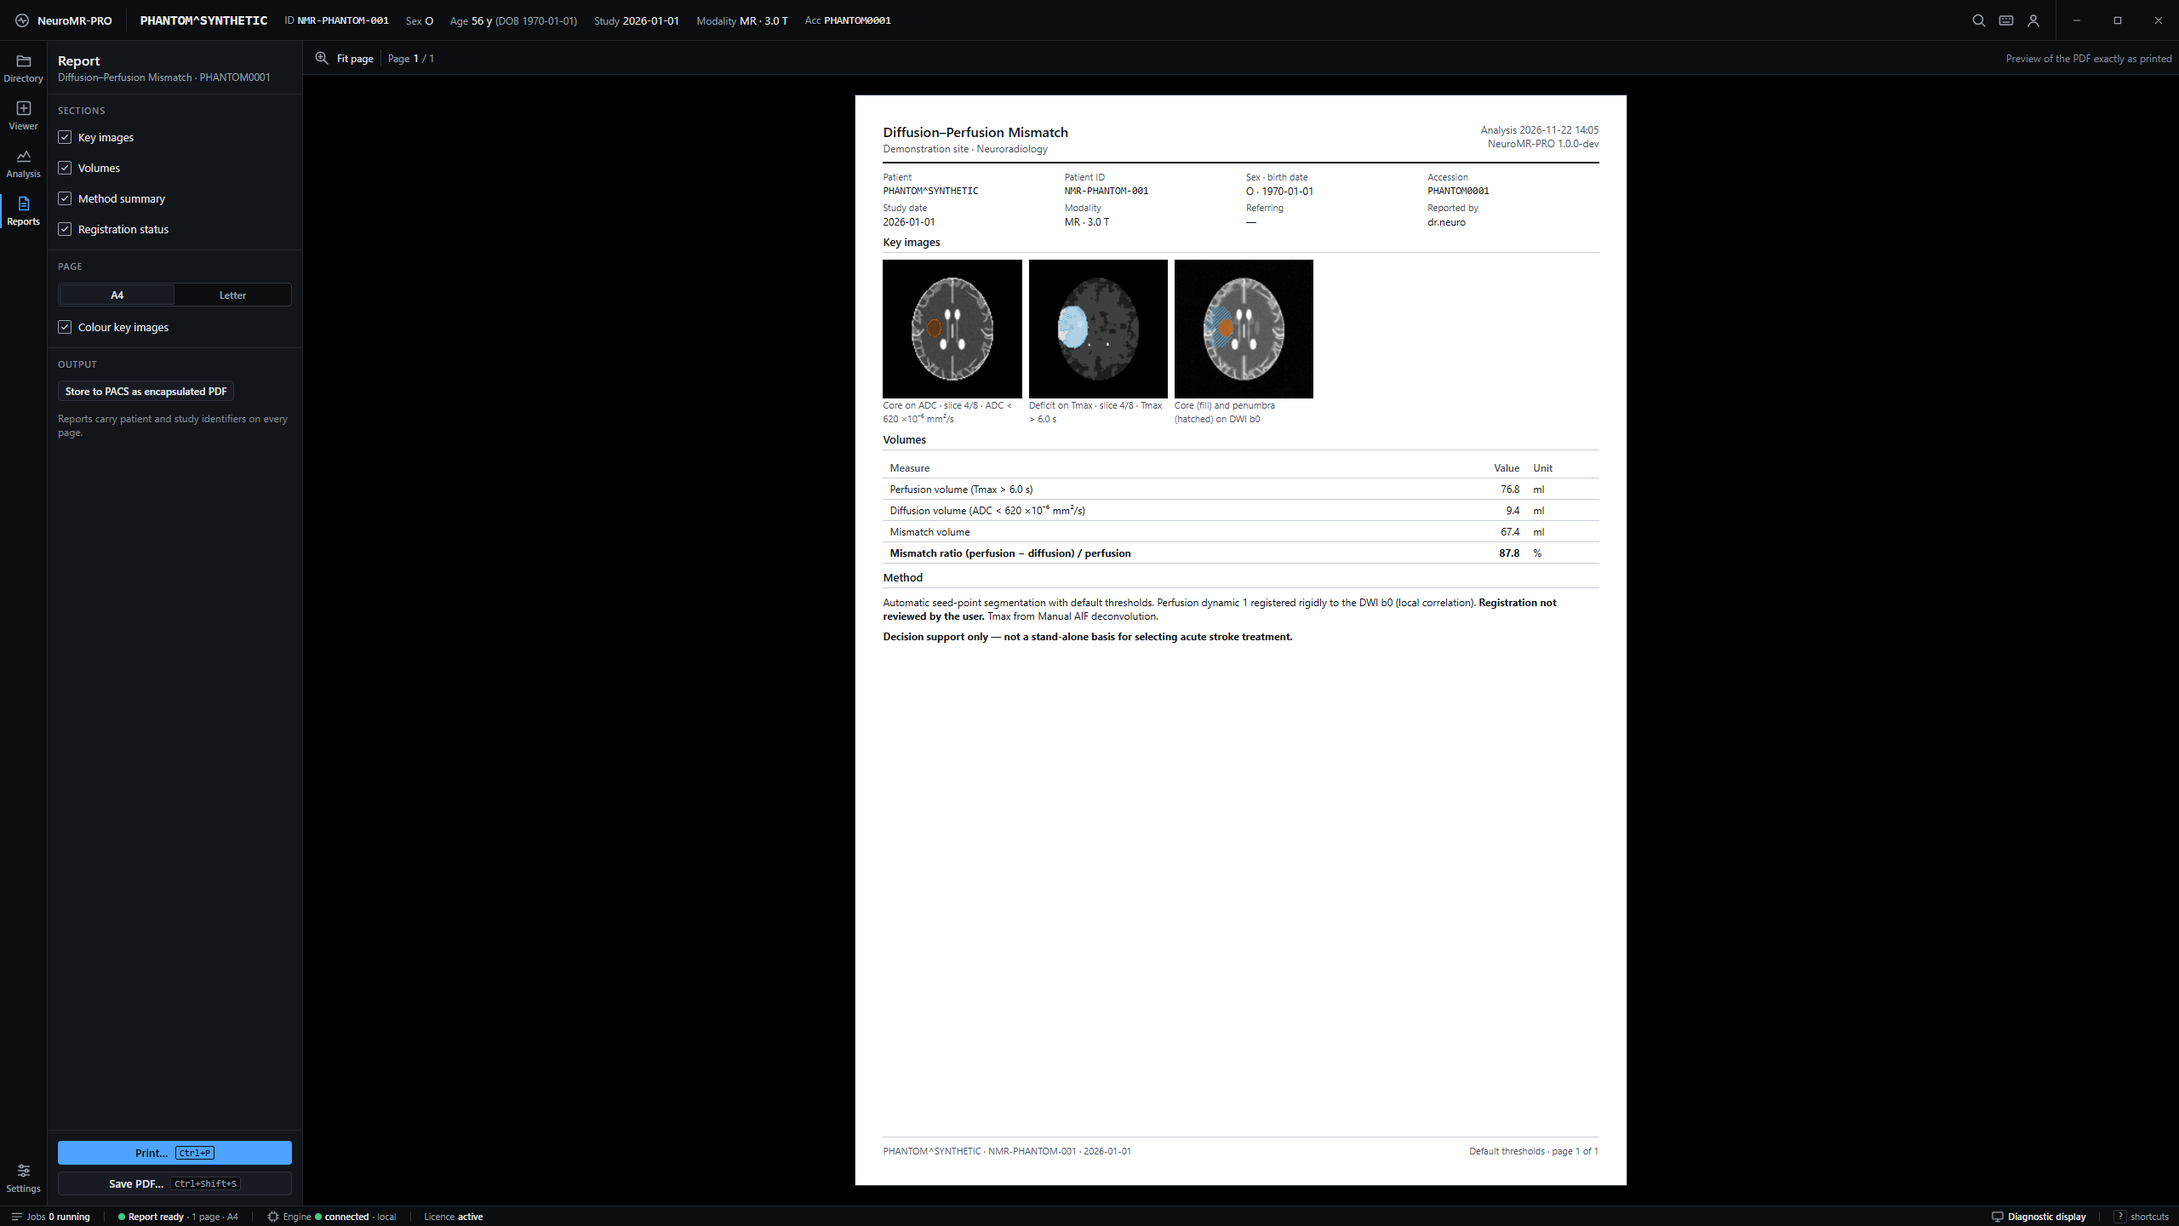
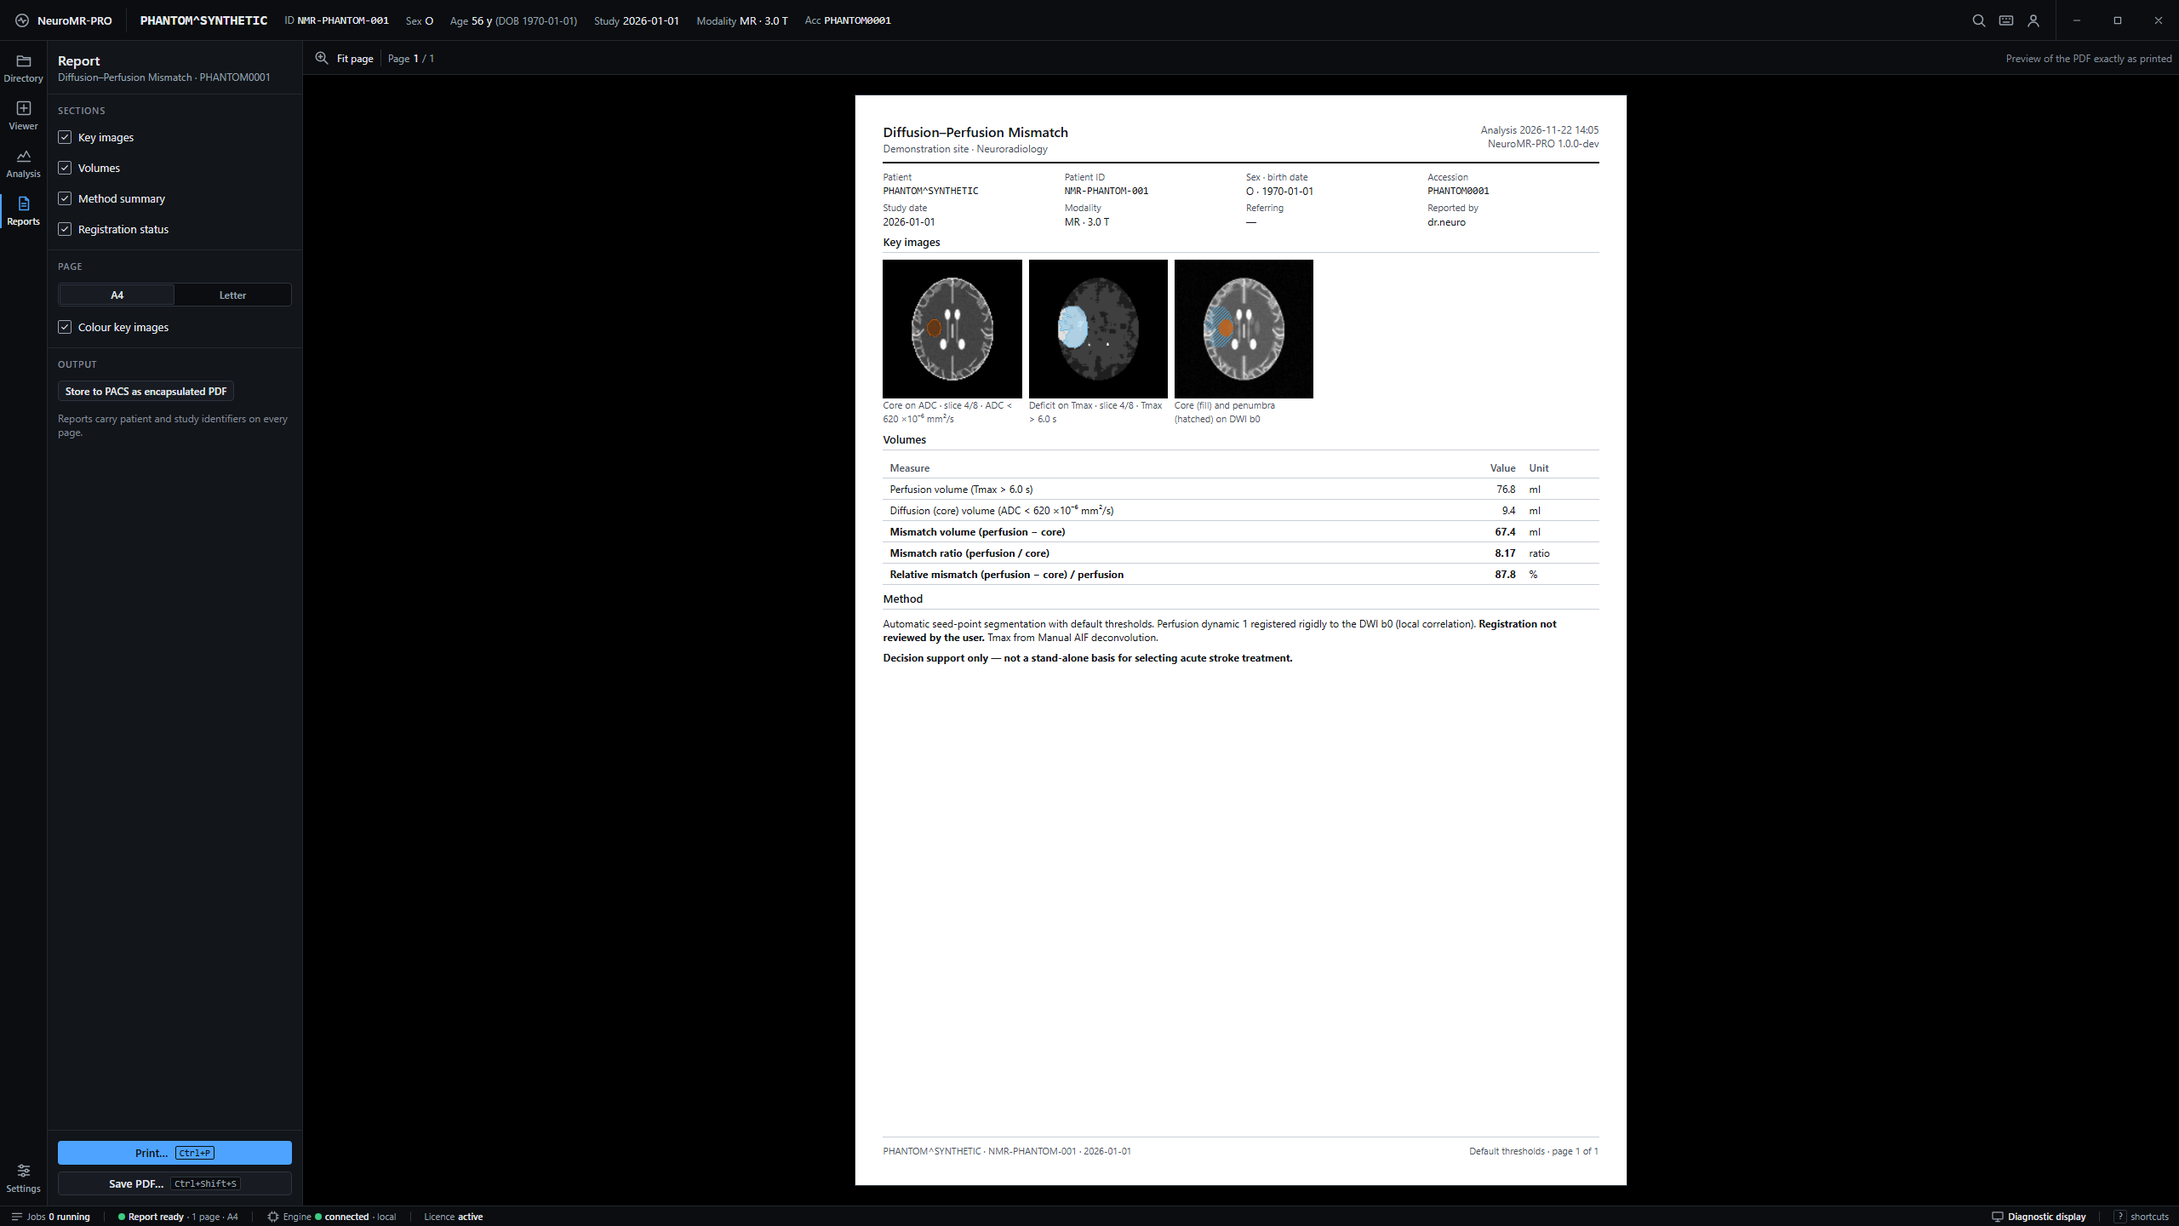
feat(design): mismatch ratio perfusion/core beside relative mismatch % (MM-008)
Table 2 and the mismatch report list perfusion, core and mismatch volume [ml],
mismatch ratio = perfusion / core and relative mismatch = (perfusion − core) /
perfusion [%], each with its formula; without a core the ratio reads "— (no core)".
Spec MM-008 and ALGORITHMS.md §3 updated; screens 05 (2×2, 2×3), 19 start view and
23 report regenerated, prototype rebuilt, CRITIQUE.md updated.

Changed region(s): [[0.4062, 0.375, 0.7188, 0.5625]]

diff --git a/design/prototype/23-report-mismatch.html b/design/prototype/23-report-mismatch.html
@@ -150,9 +150,10 @@
       <h2>Volumes</h2>
       <table class="ptbl"><thead><tr><th>Measure</th><th class="num">Value</th><th>Unit</th></tr></thead>
         <tbody><tr><td>Perfusion volume (Tmax &gt; 6.0 s)</td><td class="num">76.8</td><td>ml</td></tr>
-        <tr><td>Diffusion volume (ADC &lt; 620 ×10⁻⁶ mm²/s)</td><td class="num">9.4</td><td>ml</td></tr>
-        <tr><td>Mismatch volume</td><td class="num">67.4</td><td>ml</td></tr>
-        <tr><td><b>Mismatch ratio (perfusion − diffusion) / perfusion</b></td><td class="num"><b>87.8</b></td><td>%</td></tr></tbody></table>
+        <tr><td>Diffusion (core) volume (ADC &lt; 620 ×10⁻⁶ mm²/s)</td><td class="num">9.4</td><td>ml</td></tr>
+        <tr><td><b>Mismatch volume (perfusion − core)</b></td><td class="num"><b>67.4</b></td><td>ml</td></tr>
+        <tr><td><b>Mismatch ratio (perfusion / core)</b></td><td class="num"><b>8.17</b></td><td>ratio</td></tr>
+        <tr><td><b>Relative mismatch (perfusion − core) / perfusion</b></td><td class="num"><b>87.8</b></td><td>%</td></tr></tbody></table>
       <h2>Method</h2>
       <p>Automatic seed-point segmentation with default thresholds. Perfusion dynamic 1 registered rigidly to the DWI b0 (local correlation). <b>Registration not reviewed by the user.</b> Tmax from Manual AIF deconvolution.</p>
       <p><b>Decision support only — not a stand-alone basis for selecting acute stroke treatment.</b></p>

diff --git a/design/screens/23-report-mismatch.html b/design/screens/23-report-mismatch.html
@@ -148,9 +148,10 @@
       <h2>Volumes</h2>
       <table class="ptbl"><thead><tr><th>Measure</th><th class="num">Value</th><th>Unit</th></tr></thead>
         <tbody><tr><td>Perfusion volume (Tmax &gt; 6.0 s)</td><td class="num">76.8</td><td>ml</td></tr>
-        <tr><td>Diffusion volume (ADC &lt; 620 ×10⁻⁶ mm²/s)</td><td class="num">9.4</td><td>ml</td></tr>
-        <tr><td>Mismatch volume</td><td class="num">67.4</td><td>ml</td></tr>
-        <tr><td><b>Mismatch ratio (perfusion − diffusion) / perfusion</b></td><td class="num"><b>87.8</b></td><td>%</td></tr></tbody></table>
+        <tr><td>Diffusion (core) volume (ADC &lt; 620 ×10⁻⁶ mm²/s)</td><td class="num">9.4</td><td>ml</td></tr>
+        <tr><td><b>Mismatch volume (perfusion − core)</b></td><td class="num"><b>67.4</b></td><td>ml</td></tr>
+        <tr><td><b>Mismatch ratio (perfusion / core)</b></td><td class="num"><b>8.17</b></td><td>ratio</td></tr>
+        <tr><td><b>Relative mismatch (perfusion − core) / perfusion</b></td><td class="num"><b>87.8</b></td><td>%</td></tr></tbody></table>
       <h2>Method</h2>
       <p>Automatic seed-point segmentation with default thresholds. Perfusion dynamic 1 registered rigidly to the DWI b0 (local correlation). <b>Registration not reviewed by the user.</b> Tmax from Manual AIF deconvolution.</p>
       <p><b>Decision support only — not a stand-alone basis for selecting acute stroke treatment.</b></p>

diff --git a/design/prototype/05-mismatch-2x2.html b/design/prototype/05-mismatch-2x2.html
@@ -335,9 +335,10 @@
           <tbody>
 <!-- gen:mm-volumes -->
 <tr><td class="strong">Perfusion volume <span class="t3">Tmax &gt; 6.0 s</span></td><td class="num">76.8</td><td>ml</td></tr>
-<tr><td class="strong">Diffusion volume <span class="t3">ADC &lt; 620</span></td><td class="num">9.4</td><td>ml</td></tr>
-<tr><td class="strong">Mismatch volume</td><td class="num">67.4</td><td>ml</td></tr>
-<tr class="is-total"><td>Mismatch ratio <span class="t3">(perf − diff) / perf</span></td><td class="num">87.8</td><td>%</td></tr>
+<tr><td class="strong">Diffusion (core) volume <span class="t3">ADC &lt; 620</span></td><td class="num">9.4</td><td>ml</td></tr>
+<tr><td class="strong">Mismatch volume <span class="t3">perfusion − core</span></td><td class="num">67.4</td><td>ml</td></tr>
+<tr class="is-total"><td>Mismatch ratio <span class="t3">perfusion / core</span></td><td class="num">8.17</td><td>ratio</td></tr>
+<tr class="is-total"><td>Relative mismatch <span class="t3">(perfusion − core) / perfusion</span></td><td class="num">87.8</td><td>%</td></tr>
 <!-- /gen:mm-volumes -->
           </tbody>
         </table>

diff --git a/design/prototype/05-mismatch-2x3.html b/design/prototype/05-mismatch-2x3.html
@@ -354,9 +354,10 @@
           <tbody>
 <!-- gen:mm-volumes -->
 <tr><td class="strong">Perfusion volume <span class="t3">Tmax &gt; 6.0 s</span></td><td class="num">76.8</td><td>ml</td></tr>
-<tr><td class="strong">Diffusion volume <span class="t3">ADC &lt; 620</span></td><td class="num">9.4</td><td>ml</td></tr>
-<tr><td class="strong">Mismatch volume</td><td class="num">67.4</td><td>ml</td></tr>
-<tr class="is-total"><td>Mismatch ratio <span class="t3">(perf − diff) / perf</span></td><td class="num">87.8</td><td>%</td></tr>
+<tr><td class="strong">Diffusion (core) volume <span class="t3">ADC &lt; 620</span></td><td class="num">9.4</td><td>ml</td></tr>
+<tr><td class="strong">Mismatch volume <span class="t3">perfusion − core</span></td><td class="num">67.4</td><td>ml</td></tr>
+<tr class="is-total"><td>Mismatch ratio <span class="t3">perfusion / core</span></td><td class="num">8.17</td><td>ratio</td></tr>
+<tr class="is-total"><td>Relative mismatch <span class="t3">(perfusion − core) / perfusion</span></td><td class="num">87.8</td><td>%</td></tr>
 <!-- /gen:mm-volumes -->
           </tbody>
         </table>

diff --git a/design/prototype/18-mismatch-error-invalid.html b/design/prototype/18-mismatch-error-invalid.html
@@ -338,9 +338,10 @@
           <tbody>
 <!-- gen:mm-volumes -->
 <tr><td class="strong">Perfusion volume <span class="t3">Tmax &gt; 6.0 s</span></td><td class="num">76.8</td><td>ml</td></tr>
-<tr><td class="strong">Diffusion volume <span class="t3">ADC &lt; 620</span></td><td class="num">9.4</td><td>ml</td></tr>
-<tr><td class="strong">Mismatch volume</td><td class="num">67.4</td><td>ml</td></tr>
-<tr class="is-total"><td>Mismatch ratio <span class="t3">(perf − diff) / perf</span></td><td class="num">87.8</td><td>%</td></tr>
+<tr><td class="strong">Diffusion (core) volume <span class="t3">ADC &lt; 620</span></td><td class="num">9.4</td><td>ml</td></tr>
+<tr><td class="strong">Mismatch volume <span class="t3">perfusion − core</span></td><td class="num">67.4</td><td>ml</td></tr>
+<tr class="is-total"><td>Mismatch ratio <span class="t3">perfusion / core</span></td><td class="num">8.17</td><td>ratio</td></tr>
+<tr class="is-total"><td>Relative mismatch <span class="t3">(perfusion − core) / perfusion</span></td><td class="num">87.8</td><td>%</td></tr>
 <!-- /gen:mm-volumes -->
           </tbody>
         </table>

diff --git a/design/screens/05-mismatch-2x2.html b/design/screens/05-mismatch-2x2.html
@@ -333,9 +333,10 @@
           <tbody>
 <!-- gen:mm-volumes -->
 <tr><td class="strong">Perfusion volume <span class="t3">Tmax &gt; 6.0 s</span></td><td class="num">76.8</td><td>ml</td></tr>
-<tr><td class="strong">Diffusion volume <span class="t3">ADC &lt; 620</span></td><td class="num">9.4</td><td>ml</td></tr>
-<tr><td class="strong">Mismatch volume</td><td class="num">67.4</td><td>ml</td></tr>
-<tr class="is-total"><td>Mismatch ratio <span class="t3">(perf − diff) / perf</span></td><td class="num">87.8</td><td>%</td></tr>
+<tr><td class="strong">Diffusion (core) volume <span class="t3">ADC &lt; 620</span></td><td class="num">9.4</td><td>ml</td></tr>
+<tr><td class="strong">Mismatch volume <span class="t3">perfusion − core</span></td><td class="num">67.4</td><td>ml</td></tr>
+<tr class="is-total"><td>Mismatch ratio <span class="t3">perfusion / core</span></td><td class="num">8.17</td><td>ratio</td></tr>
+<tr class="is-total"><td>Relative mismatch <span class="t3">(perfusion − core) / perfusion</span></td><td class="num">87.8</td><td>%</td></tr>
 <!-- /gen:mm-volumes -->
           </tbody>
         </table>

diff --git a/design/screens/05-mismatch-2x3.html b/design/screens/05-mismatch-2x3.html
@@ -352,9 +352,10 @@
           <tbody>
 <!-- gen:mm-volumes -->
 <tr><td class="strong">Perfusion volume <span class="t3">Tmax &gt; 6.0 s</span></td><td class="num">76.8</td><td>ml</td></tr>
-<tr><td class="strong">Diffusion volume <span class="t3">ADC &lt; 620</span></td><td class="num">9.4</td><td>ml</td></tr>
-<tr><td class="strong">Mismatch volume</td><td class="num">67.4</td><td>ml</td></tr>
-<tr class="is-total"><td>Mismatch ratio <span class="t3">(perf − diff) / perf</span></td><td class="num">87.8</td><td>%</td></tr>
+<tr><td class="strong">Diffusion (core) volume <span class="t3">ADC &lt; 620</span></td><td class="num">9.4</td><td>ml</td></tr>
+<tr><td class="strong">Mismatch volume <span class="t3">perfusion − core</span></td><td class="num">67.4</td><td>ml</td></tr>
+<tr class="is-total"><td>Mismatch ratio <span class="t3">perfusion / core</span></td><td class="num">8.17</td><td>ratio</td></tr>
+<tr class="is-total"><td>Relative mismatch <span class="t3">(perfusion − core) / perfusion</span></td><td class="num">87.8</td><td>%</td></tr>
 <!-- /gen:mm-volumes -->
           </tbody>
         </table>

diff --git a/design/screens/18-mismatch-error-invalid.html b/design/screens/18-mismatch-error-invalid.html
@@ -336,9 +336,10 @@
           <tbody>
 <!-- gen:mm-volumes -->
 <tr><td class="strong">Perfusion volume <span class="t3">Tmax &gt; 6.0 s</span></td><td class="num">76.8</td><td>ml</td></tr>
-<tr><td class="strong">Diffusion volume <span class="t3">ADC &lt; 620</span></td><td class="num">9.4</td><td>ml</td></tr>
-<tr><td class="strong">Mismatch volume</td><td class="num">67.4</td><td>ml</td></tr>
-<tr class="is-total"><td>Mismatch ratio <span class="t3">(perf − diff) / perf</span></td><td class="num">87.8</td><td>%</td></tr>
+<tr><td class="strong">Diffusion (core) volume <span class="t3">ADC &lt; 620</span></td><td class="num">9.4</td><td>ml</td></tr>
+<tr><td class="strong">Mismatch volume <span class="t3">perfusion − core</span></td><td class="num">67.4</td><td>ml</td></tr>
+<tr class="is-total"><td>Mismatch ratio <span class="t3">perfusion / core</span></td><td class="num">8.17</td><td>ratio</td></tr>
+<tr class="is-total"><td>Relative mismatch <span class="t3">(perfusion − core) / perfusion</span></td><td class="num">87.8</td><td>%</td></tr>
 <!-- /gen:mm-volumes -->
           </tbody>
         </table>

diff --git a/design/prototype/19-start-neurologist.html b/design/prototype/19-start-neurologist.html
@@ -114,7 +114,7 @@
             <colgroup><col style="width:28%"><col style="width:16%"><col><col style="width:14%"></colgroup>
             <thead><tr><th>Patient</th><th>Study</th><th>Result (pre-processed)</th><th></th></tr></thead>
             <tbody>
-              <tr class="is-selected"><td class="strong mono">PHANTOM^SYNTHETIC</td><td>2026-01-01</td><td>Perfusion 76.8 ml · diffusion 9.4 ml · mismatch 67.4 ml <span class="chip chip--warning">Not reviewed</span></td><td><button class="btn btn--primary btn--dense">Open <span class="kbd">Enter</span></button></td></tr>
+              <tr class="is-selected"><td class="strong mono">PHANTOM^SYNTHETIC</td><td>2026-01-01</td><td>Perfusion 76.8 ml · core 9.4 ml · mismatch 67.4 ml · ratio 8.17 (87.8 %) <span class="chip chip--warning">Not reviewed</span></td><td><button class="btn btn--primary btn--dense">Open <span class="kbd">Enter</span></button></td></tr>
             </tbody>
           </table>
           <span class="field__hint">Pre-processed in the background; open the case to review registration and segmentation before using the values.</span>

diff --git a/design/screens/19-start-neurologist.html b/design/screens/19-start-neurologist.html
@@ -112,7 +112,7 @@
             <colgroup><col style="width:28%"><col style="width:16%"><col><col style="width:14%"></colgroup>
             <thead><tr><th>Patient</th><th>Study</th><th>Result (pre-processed)</th><th></th></tr></thead>
             <tbody>
-              <tr class="is-selected"><td class="strong mono">PHANTOM^SYNTHETIC</td><td>2026-01-01</td><td>Perfusion 76.8 ml · diffusion 9.4 ml · mismatch 67.4 ml <span class="chip chip--warning">Not reviewed</span></td><td><button class="btn btn--primary btn--dense">Open <span class="kbd">Enter</span></button></td></tr>
+              <tr class="is-selected"><td class="strong mono">PHANTOM^SYNTHETIC</td><td>2026-01-01</td><td>Perfusion 76.8 ml · core 9.4 ml · mismatch 67.4 ml · ratio 8.17 (87.8 %) <span class="chip chip--warning">Not reviewed</span></td><td><button class="btn btn--primary btn--dense">Open <span class="kbd">Enter</span></button></td></tr>
             </tbody>
           </table>
           <span class="field__hint">Pre-processed in the background; open the case to review registration and segmentation before using the values.</span>

diff --git a/design/tools/compose/enterprise.py b/design/tools/compose/enterprise.py
@@ -96,7 +96,7 @@ start = '''<div class="app app--settings">
             <colgroup><col style="width:28%"><col style="width:16%"><col><col style="width:14%"></colgroup>
             <thead><tr><th>Patient</th><th>Study</th><th>Result (pre-processed)</th><th></th></tr></thead>
             <tbody>
-              <tr class="is-selected"><td class="strong mono">PHANTOM^SYNTHETIC</td><td>2026-01-01</td><td>Perfusion 76.8 ml · diffusion 9.4 ml · mismatch 67.4 ml <span class="chip chip--warning">Not reviewed</span></td><td><button class="btn btn--primary btn--dense">Open <span class="kbd">Enter</span></button></td></tr>
+              <tr class="is-selected"><td class="strong mono">PHANTOM^SYNTHETIC</td><td>2026-01-01</td><td>Perfusion 76.8 ml · core 9.4 ml · mismatch 67.4 ml · ratio 8.17 (87.8 %) <span class="chip chip--warning">Not reviewed</span></td><td><button class="btn btn--primary btn--dense">Open <span class="kbd">Enter</span></button></td></tr>
             </tbody>
           </table>
           <span class="field__hint">Pre-processed in the background; open the case to review registration and segmentation before using the values.</span>''') + "\n" + card("Follow-up · comparison ready", '''          <table class="tbl">
@@ -355,6 +355,7 @@ def img(src: str, cap: str, lut: str = "", hi: str = "", lo: str = "", unit: str
 
 dsc_graph = re.search(r'<svg class="graph".*?</svg>', (S / "03-dsc-perfusion.html").read_text(encoding="utf-8"), re.S).group(0)
 DSC, MM = DATA["dsc"], DATA["dti"]["mismatch"]
+MM_RATIO = "— (no core)" if MM["diffusion_ml"] <= 0 else f'{MM["perfusion_ml"] / MM["diffusion_ml"]:.2f}'  # MM-008
 _T = DSC["table"]
 
 
@@ -391,9 +392,10 @@ mm_paper = f'''    <article class="paper" aria-label="Mismatch report page 1">
       <h2>Volumes</h2>
       <table class="ptbl"><thead><tr><th>Measure</th><th class="num">Value</th><th>Unit</th></tr></thead>
         <tbody><tr><td>Perfusion volume (Tmax &gt; 6.0 s)</td><td class="num">{MM["perfusion_ml"]:.1f}</td><td>ml</td></tr>
-        <tr><td>Diffusion volume (ADC &lt; 620 ×10⁻⁶ mm²/s)</td><td class="num">{MM["diffusion_ml"]:.1f}</td><td>ml</td></tr>
-        <tr><td>Mismatch volume</td><td class="num">{MM["mismatch_ml"]:.1f}</td><td>ml</td></tr>
-        <tr><td><b>Mismatch ratio (perfusion − diffusion) / perfusion</b></td><td class="num"><b>{MM["ratio_pct"]:.1f}</b></td><td>%</td></tr></tbody></table>
+        <tr><td>Diffusion (core) volume (ADC &lt; 620 ×10⁻⁶ mm²/s)</td><td class="num">{MM["diffusion_ml"]:.1f}</td><td>ml</td></tr>
+        <tr><td><b>Mismatch volume (perfusion − core)</b></td><td class="num"><b>{MM["mismatch_ml"]:.1f}</b></td><td>ml</td></tr>
+        <tr><td><b>Mismatch ratio (perfusion / core)</b></td><td class="num"><b>{MM_RATIO}</b></td><td>ratio</td></tr>
+        <tr><td><b>Relative mismatch (perfusion − core) / perfusion</b></td><td class="num"><b>{MM["ratio_pct"]:.1f}</b></td><td>%</td></tr></tbody></table>
       <h2>Method</h2>
       <p>Automatic seed-point segmentation with default thresholds. Perfusion dynamic 1 registered rigidly to the DWI b0 (local correlation). <b>Registration not reviewed by the user.</b> Tmax from Manual AIF deconvolution.</p>
       <p><b>Decision support only — not a stand-alone basis for selecting acute stroke treatment.</b></p>

diff --git a/design/tools/inject_plots.py b/design/tools/inject_plots.py
@@ -194,10 +194,16 @@ def mm_volumes() -> str:
     m = DATA["dti"]["mismatch"]
     return NL.join([
         f'<tr><td class="strong">Perfusion volume <span class="t3">Tmax &gt; 6.0 s</span></td><td class="num">{m["perfusion_ml"]:.1f}</td><td>ml</td></tr>',
-        f'<tr><td class="strong">Diffusion volume <span class="t3">ADC &lt; 620</span></td><td class="num">{m["diffusion_ml"]:.1f}</td><td>ml</td></tr>',
-        f'<tr><td class="strong">Mismatch volume</td><td class="num">{m["mismatch_ml"]:.1f}</td><td>ml</td></tr>',
-        f'<tr class="is-total"><td>Mismatch ratio <span class="t3">(perf − diff) / perf</span></td><td class="num">{m["ratio_pct"]:.1f}</td><td>%</td></tr>',
+        f'<tr><td class="strong">Diffusion (core) volume <span class="t3">ADC &lt; 620</span></td><td class="num">{m["diffusion_ml"]:.1f}</td><td>ml</td></tr>',
+        f'<tr><td class="strong">Mismatch volume <span class="t3">perfusion − core</span></td><td class="num">{m["mismatch_ml"]:.1f}</td><td>ml</td></tr>',
+        f'<tr class="is-total"><td>Mismatch ratio <span class="t3">perfusion / core</span></td><td class="num">{mm_ratio(m)}</td><td>ratio</td></tr>',
+        f'<tr class="is-total"><td>Relative mismatch <span class="t3">(perfusion − core) / perfusion</span></td><td class="num">{m["ratio_pct"]:.1f}</td><td>%</td></tr>',
     ])
+
+
+def mm_ratio(m: dict) -> str:
+    """Mismatch ratio perfusion / core; undefined without a core (MM-008)."""
+    return "— (no core)" if m["diffusion_ml"] <= 0 else f'{m["perfusion_ml"] / m["diffusion_ml"]:.2f}'
 
 
 def _seed(kind: str, xy: list[float]) -> str:
